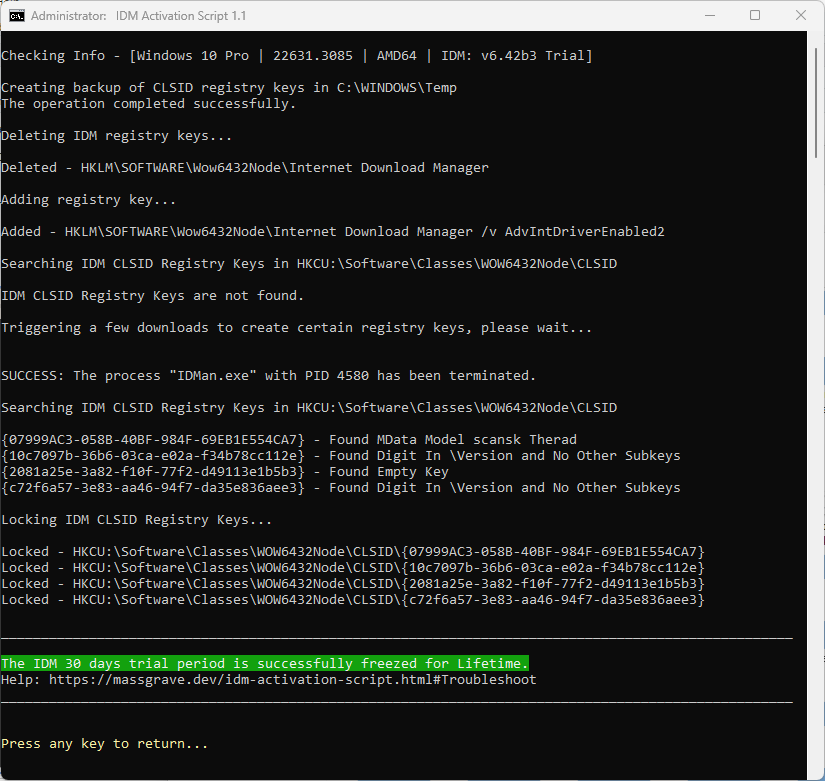
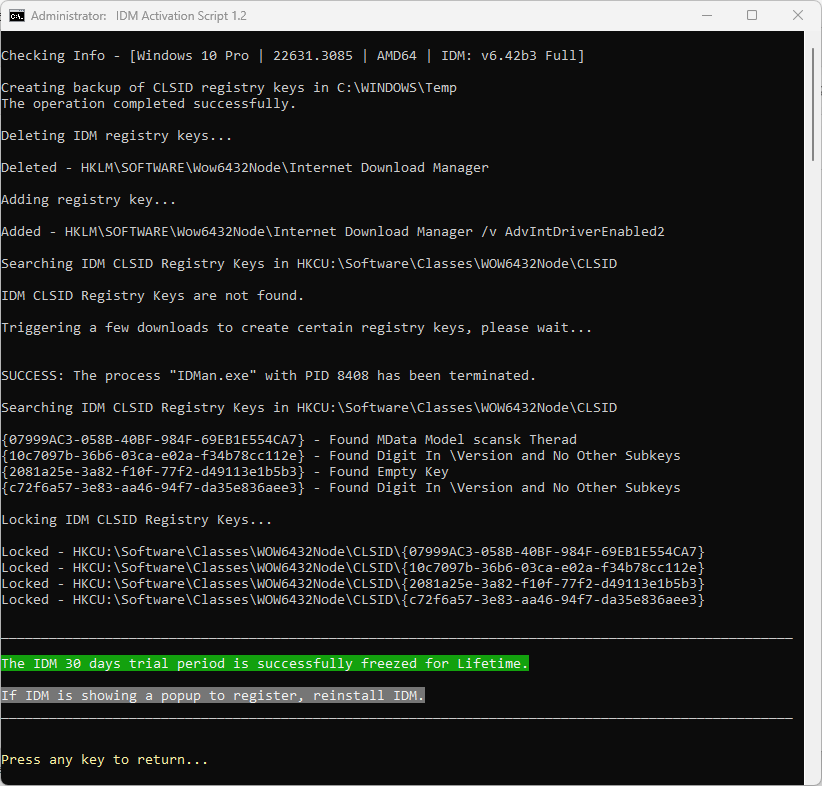
IAS 1.2

diff --git a/_site/idm-activation-script.html b/_site/idm-activation-script.html
@@ -425,7 +425,7 @@ Manager</a></p>
 </div>
 <div id="ias-latest-release" class="section level2">
 <h2>IAS Latest Release</h2>
-<p>Last Release - v1.1 (09-Feb-2024)<br />
+<p>Last Release - v1.2 (12-Feb-2024)<br />
 <a
 href="https://github.com/WindowsAddict/IDM-Activation-Script">GitHub</a>
 - <a
@@ -531,6 +531,8 @@ higher.</li>
 <div id="advanced-info" class="section level4">
 <h4>Advanced Info</h4>
 <ul>
+<li>To activate in unattended mode, run the script with the
+<code>/act</code> parameter.</li>
 <li>To freeze the trial in unattended mode, run the script with the
 <code>/frz</code> parameter.</li>
 <li>To reset in unattended mode, run the script with the
@@ -570,6 +572,14 @@ src="https://lookimg.com/images/2023/03/21/QTvjcD.png" /></a></p>
 </div>
 <div id="changelog" class="section level2">
 <h2>Changelog</h2>
+<div id="v1.2" class="section level4">
+<h4>v1.2</h4>
+<ul>
+<li>Added back activation option with a randomized name, email, and key
+in registration details along with a warning that it’s not working for
+some users, the recommended option is to use Freeze trial.</li>
+</ul>
+</div>
 <div id="v1.1" class="section level4">
 <h4>v1.1</h4>
 <ul>
@@ -643,8 +653,8 @@ when the script deletes a lot of them</li>
 <h2>Credits</h2>
 <table>
 <colgroup>
-<col width="22%" />
-<col width="77%" />
+<col width="25%" />
+<col width="75%" />
 </colgroup>
 <tbody>
 <tr class="odd">

diff --git a/idm-activation-script.md b/idm-activation-script.md
@@ -20,7 +20,7 @@ An open-source tool to activate and reset the trial of [Internet Download Manage
 
 ## IAS Latest Release
 
-Last Release - v1.1 (09-Feb-2024)\
+Last Release - v1.2 (12-Feb-2024)\
 [GitHub](https://github.com/WindowsAddict/IDM-Activation-Script) - [BitBucket](https://bitbucket.org/WindowsAddict/idm-activation-script/)
 
 ------------------------------------------------------------------------
@@ -87,6 +87,7 @@ Last Release - v1.1 (09-Feb-2024)\
 
 #### Advanced Info
 
+-   To activate in unattended mode, run the script with the `/act` parameter.
 -   To freeze the trial in unattended mode, run the script with the `/frz` parameter.
 -   To reset in unattended mode, run the script with the `/res` parameter.
 
@@ -108,6 +109,10 @@ Last Release - v1.1 (09-Feb-2024)\
 ------------------------------------------------------------------------
 
 ## Changelog
+
+#### v1.2
+
+-   Added back activation option with a randomized name, email, and key in registration details along with a warning that it's not working for some users, the recommended option is to use Freeze trial.
 
 #### v1.1
 
@@ -151,7 +156,7 @@ Last Release - v1.1 (09-Feb-2024)\
 ## Credits
 
 |                                             |                                                                                                                                                                                                                                        |
-|----------------|--------------------------------------------------------|
+|------------------|------------------------------------------------------|
 | Dukun Cabul                                 | Original researcher of this IDM trial reset and activation logic, made an Autoit tool for these methods, [IDM-AIO_2020_Final](https://nsaneforums.com/topic/371047-discussion-internet-download-manager-fixes/page/8/#comment-1632062) |
 | AveYo aka BAU                               | [reg_own lean and mean snippet](https://pastebin.com/XTPt0JSC)                                                                                                                                                                         |
 | [abbodi1406](https://github.com/abbodi1406) | Help in coding                                                                                                                                                                                                                         |
